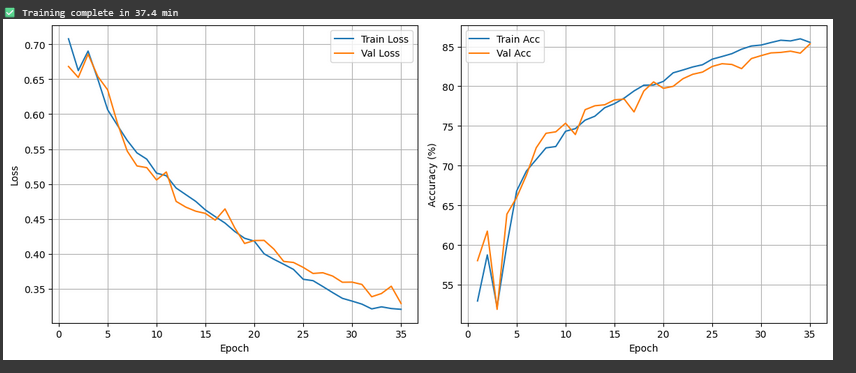
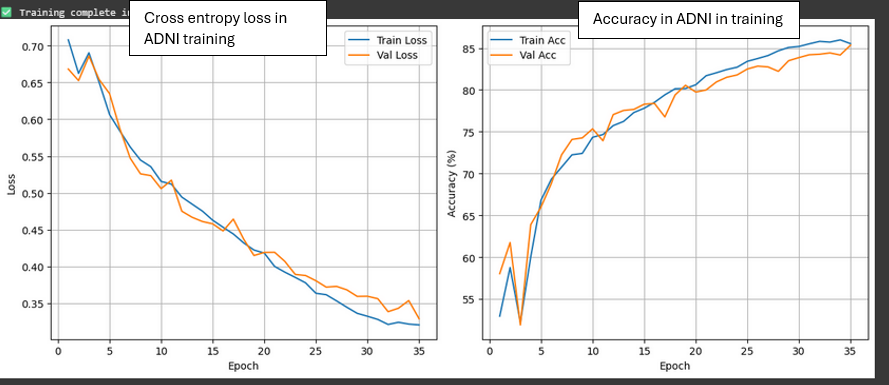
Removing training files and fixing epoch sizes for submission, general fixes to readme.

diff --git a/recognition/Task_8_Convnext_48833974/predict.py b/recognition/Task_8_Convnext_48833974/predict.py
@@ -68,11 +68,11 @@ if __name__ == "__main__":
     """
     
     criterion = nn.CrossEntropyLoss()
-    batch_size = 4
+    batch_size = 32
 
     device = torch.device('cuda' if torch.cuda.is_available() else 'cpu')
     if not torch.cuda.is_available():
-        print("⚠ CUDA not found — running on CPU")
+        print("CUDA not found — running on CPU")
 
     model = ConvNeXt(in_chans=3).to(device)
     BASE_DIR = os.path.dirname(__file__)

diff --git a/recognition/Task_8_Convnext_48833974/train.py b/recognition/Task_8_Convnext_48833974/train.py
@@ -116,7 +116,7 @@ if __name__ == "__main__":
     save_path = os.path.join(BASE_DIR, "best_model.pth")
     
     device = torch.device('cuda' if torch.cuda.is_available() else 'cpu')
-    batch_size, num_epochs, lr, wd, patience = 4, 2, 3e-4, 1e-3, 5
+    batch_size, num_epochs, lr, wd, patience = 32, 35, 3e-4, 1e-3, 5
 
     full_train_dataset = ADNI(train_dir, mode='train')
     train_size = int(0.85 * len(full_train_dataset))

diff --git a/recognition/Task_8_Convnext_48833974/README.md b/recognition/Task_8_Convnext_48833974/README.md
@@ -2,7 +2,7 @@
 
 ## 1. Introduction
 
-Disclaimer: All data was trained and tested as a google colab file. This implementation is almost identical, but has been adapted to run locally assuming the AD_NC dataset files are in this directory. The only other change is seperating out the implementation into their correct files to ensure the correct file structure was used.
+Disclaimer: All data was trained and tested as a Google Colab file. This implementation is almost identical, but has been adapted to run locally assuming the AD_NC dataset files are in this directory. The only other change is separating out the implementation into their correct files to ensure the correct file structure was used.
 
 ConvNeXt is a new and updated CNN architecture that combines elements of ResNet with design features from Vision Transformers (ViTs). While more traditional CNN's like ResNet are efficient and scalable, ViT's are strong at dealing with larger scale datasets, and more specific normalization/regularisation techniques. ConvNeXt provides the best of both of these architectures combining features from both approaches.
 
@@ -35,12 +35,12 @@ The following diagram illustrates the overall structure of the ConvNeXt architec
 
 ![Structure of the model](ConvNeXt-structure.webp)
 
-**Figure 1:** Structure of the model (GeeksforGeeks, 2025)
+**Figure 1:** Structure of the convNeXt model (GeeksforGeeks, 2025)
 
 ### 2.3 Architecture components
 
 #### Stem
-Takes a standard 224*224*3 image as RGB input and convolves using a 4*4 kernel and stride 4.
+Takes a standard 224*224*3 image as RGB input (from greyscale MRI) and convolves using a 4*4 kernel and stride 4.
 The output is a 56×56×96 feature map, where each pixel represents a learned embedding of a 4×4 region of the image.
 
 #### Stage 1
@@ -61,7 +61,9 @@ Classification of image given logit probabilities to sort into AD and NC.
 
 ## 3. Dataset
 
-This implementation of ConvNeXT uses the ANDI Alzheimer's data set of brain MRI data. There are around 27k samples that are used by the model for training/testing purposes. This data has been processed into greyscale and has been sorted into train and test data based on AD (non-healthy) and NC (healthy) data. There  Each image has been resized into the default format for ConvNeXt (224*224) and has then been converted to a torch tensor. In order to improve the quality of model training, images in the dataset have been augmented by randomly flipping, rotating, and translating to ensure that the model is robust and will not overfit the training dataset. The train data was further partitioned into a smaller validate set for hyperparameter tuning.
+This implementation of ConvNeXT uses the ANDI Alzheimer's data set of brain MRI data. There are around 27k samples that are used by the model for training/testing purposes. This data has been processed into greyscale and has been sorted into train and test data based on AD (non-healthy) and NC (healthy) data. By default the format of input into the ConvNeXt model is 3 channel rgb, so this is what each image has been converted to, replicating greyscale intensity over three channels. 
+
+Each image has been resized into the default format for ConvNeXt (224*224) and has then been converted to a torch tensor. In order to improve the quality of model training, images in the dataset have been augmented by randomly flipping, rotating, and translating to ensure that the model is robust and will not overfit the training dataset. The train data was further partitioned into a smaller validate set for hyperparameter tuning. 
 
 ![A sample image from the dataset](218391_78.jpeg)
 
@@ -105,7 +107,7 @@ The following graphs plot each epoch against the accuracy and cross entropy loss
 
 ![Epochs plotted against accuracy and loss](image-1.png)
 
-**Figure 3:** Epochs plotted against accuracy and loss
+**Figure 3:** Epochs of ANDI training plotted against accuracy and loss
 
 ### 4.4 Challenges and how they were overcome
 
@@ -122,7 +124,7 @@ Overfitting was also mitiagted by adjusting hyperparamaters such as weight drop 
 ConvNeXt offers a range of model sizes, and it was assumed early in devlelopment that the smallest models possible ( tiny or nano) would be the most effective due to only 2 classification factors and a small dataset. It was later discovered that increasing this was decraesing the accuracy of the model unessasarily due to decreased model depth. Beacuse of this, ConvNeXt Small parameters were used instead. 
 
 ## 5. Predict
-Provides function for saving and testing the model on the test set. During training, the current best model is saved each time validation accuracy is imporved. Then after training, the best model is tested against the test set to get a final accuracy score based on test accuracy. The current best acheived result on the test set is 74.10%. This indicates a decent result, but a notable drop in accuracy compared to the train and validation accuracies achived on this model. It was also found that the model has a slight bias towards classifying AD samples as NC in the test set, which is a weakness of this implmentation. Therfore it can be concluded that a weakness of this model in its current implementation is its struggles with generalizability.
+Provides function for saving and testing the model on the test set. During training, the current best model is saved each time validation accuracy is imporved. Then after training, the best model is tested against the test set to get a final accuracy score based on test accuracy. The current best acheived result on the test set is 74.10%. This indicates a decent result, but a notable drop in accuracy compared to the train and validation accuracies achived on this model. Therfore it can be concluded that a weakness of this model in its current implementation is that it struggles with generalizability.
 
 ### 5.1 Confusion Matrix
 
